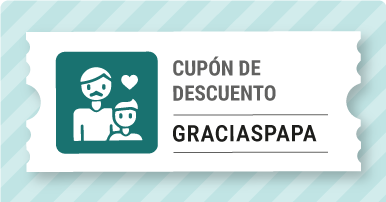
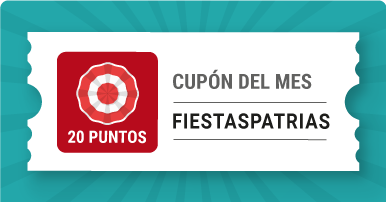
changes

diff --git a/pages/beneficios.js b/pages/beneficios.js
@@ -53,17 +53,17 @@ const Promociones = () => {
           <article className={styles.PromotionsWrapper}>
             <Card className={styles.PromotionCard}>
               <div className={styles.Cover}>
-                <Image src="/images/beneficios/cupon-mes.png" alt="Cupón para cambio online GRACIASPAPA" layout="fill" objectFit="cover" />
+                <Image src="/images/beneficios/cupon-mes.png" alt="Cupón para cambio online FELICESFIESTAS" layout="fill" objectFit="cover" />
               </div>
               <div className={styles.Info}>
                 <h3>Cupón del mes</h3>
-                <h2>GRACIASPAPA</h2>
+                <h2>FELICESFIESTAS</h2>
                 <p className={styles.Date}>
-                  <time dateTime="01-06-2022">01/06</time> al <time dateTime="30-06-2022">30/06</time> del 2022
+                  <time dateTime="01-07-2022">01/07</time> al <time dateTime="31-07-2022">31/07</time> del 2022
                 </p>
                 <p>
-                  En este mes de papá, haz tus cambios usando este cupón y obtén 20 puntos a favor de tu cambio. Cupón válido desde el 1 de Mayo hasta el 31 de Mayo. Válido para 4
-                  cambios.
+                  En este mes celebra las fechas patrias haciendo tus cambios usando nuestro cupón y obtén 20 puntos a favor de tu cambio. Cupón válido desde el 1 de Julio hasta el
+                  31 de Julio. Válido para 4 cambios a partir de $100 USD.
                 </p>
                 <div className={styles.Actions}>
                   <a href="https://app.instakash.net/signin" className="mr-4">
